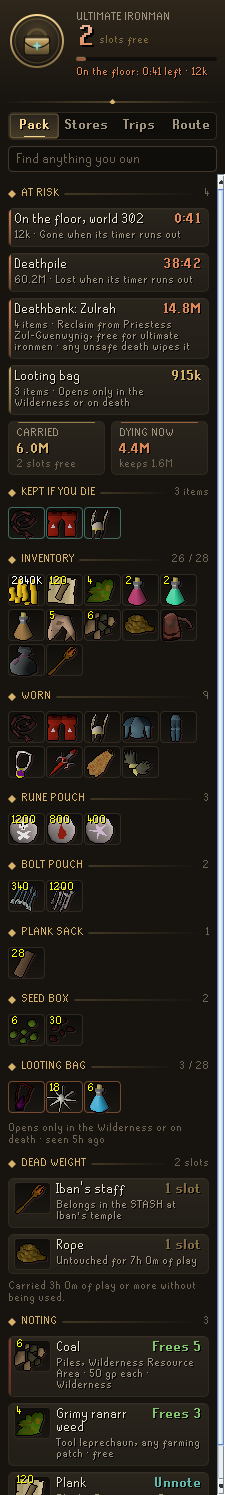
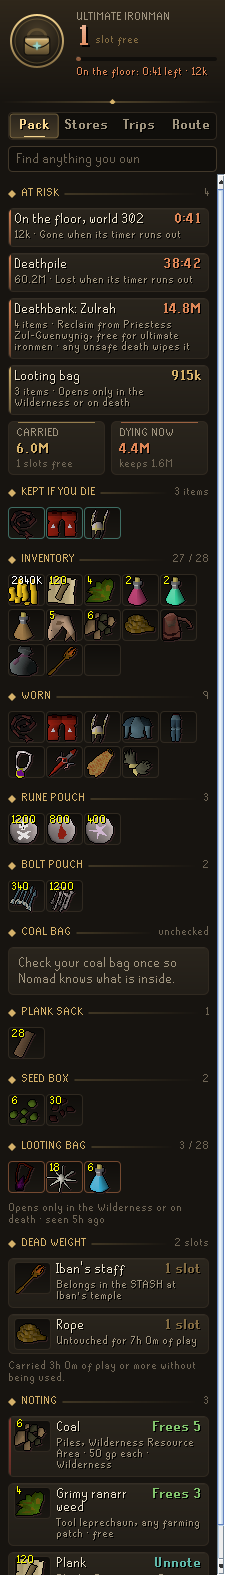
Ask for one check of a carried bag Nomad has never seen inside
The herb sack, coal bag, gem bag, fish barrel and log basket are only
described in words, so until one is checked the Pack tab says so rather
than leaving it out.

diff --git a/src/main/java/com/codex/nomad/Views.java b/src/main/java/com/codex/nomad/Views.java
@@ -58,8 +58,32 @@ final class Views
 		net.runelite.api.gameval.ItemID.FISH_BARREL_OPEN, net.runelite.api.gameval.ItemID.LOG_BASKET_CLOSED,
 		net.runelite.api.gameval.ItemID.LOG_BASKET_OPEN));
 
+	/** The bags read from what the game says, with the items that are the bag itself. */
+	private static final Map<String, int[]> HEARD = new LinkedHashMap<>();
+
+	static
+	{
+		HEARD.put(HerbSack.NAME, new int[]{net.runelite.api.gameval.ItemID.SLAYER_HERB_SACK, net.runelite.api.gameval.ItemID.SLAYER_HERB_SACK_OPEN});
+		HEARD.put(Bags.COAL, new int[]{net.runelite.api.gameval.ItemID.COAL_BAG, net.runelite.api.gameval.ItemID.COAL_BAG_OPEN});
+		HEARD.put(Bags.GEMS, new int[]{net.runelite.api.gameval.ItemID.GEM_BAG, net.runelite.api.gameval.ItemID.GEM_BAG_OPEN});
+		HEARD.put(Bags.FISH, new int[]{net.runelite.api.gameval.ItemID.FISH_BARREL_CLOSED, net.runelite.api.gameval.ItemID.FISH_BARREL_OPEN});
+		HEARD.put(Bags.LOGS, new int[]{net.runelite.api.gameval.ItemID.LOG_BASKET_CLOSED, net.runelite.api.gameval.ItemID.LOG_BASKET_OPEN});
+	}
+
 	private Views()
 	{
+	}
+
+	private static boolean carries(Nomad n, int[] ids)
+	{
+		for (int id : ids)
+		{
+			if (n.carried(Nomad.INVENTORY).getOrDefault(id, 0L) > 0)
+			{
+				return true;
+			}
+		}
+		return false;
 	}
 
 	static View build(Nomad n, Lookup look, StashBook stash, Route route, Route.Account account, int[] here, int keep,
@@ -84,6 +108,17 @@ final class Views
 				vessel.name = name;
 				vessel.items = lines(n.carried(name), look);
 				vessel.seen = n.seenAt(name);
+				vessels.add(vessel);
+			}
+		}
+		// A bag the game only describes in words stays unknown until it is first checked.
+		for (Map.Entry<String, int[]> bag : HEARD.entrySet())
+		{
+			if (!n.seen(bag.getKey()) && carries(n, bag.getValue()))
+			{
+				View.Vessel vessel = new View.Vessel();
+				vessel.name = bag.getKey();
+				vessel.unchecked = true;
 				vessels.add(vessel);
 			}
 		}

diff --git a/src/main/java/com/codex/nomad/ui/NomadPanel.java b/src/main/java/com/codex/nomad/ui/NomadPanel.java
@@ -380,8 +380,15 @@ public class NomadPanel extends PluginPanel
 		}
 		for (View.Vessel vessel : v.vessels)
 		{
-			p.add(new SectionHeader(vessel.name, String.valueOf(vessel.items.size())));
-			p.add(grid(vessel.items, null));
+			p.add(new SectionHeader(vessel.name, vessel.unchecked ? "unchecked" : String.valueOf(vessel.items.size())));
+			if (vessel.unchecked)
+			{
+				p.add(note("Check your " + vessel.name.toLowerCase() + " once so Nomad knows what is inside."));
+			}
+			else
+			{
+				p.add(grid(vessel.items, null));
+			}
 		}
 		p.add(new SectionHeader("Looting bag", v.bagKnown ? v.bagUsed + " / 28" : "unchecked"));
 		if (!v.bagKnown)

diff --git a/src/main/java/com/codex/nomad/ui/View.java b/src/main/java/com/codex/nomad/ui/View.java
@@ -95,6 +95,8 @@ public final class View
 		public String name;
 		public List<ItemLine> items = Collections.emptyList();
 		public long seen;
+		/** Carried but never checked, so what it holds is unknown. */
+		public boolean unchecked;
 	}
 
 	/** A carried stack that has sat untouched. */
